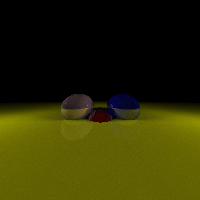
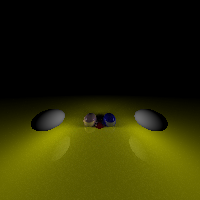
non working sphrical light sources

Changed region(s): [[0.0, 0.45, 1.0, 0.81]]

diff --git a/src/main.rs b/src/main.rs
@@ -55,7 +55,7 @@ impl Light {
             position: position.clone(),
             direction: direction,
             radius: radius,
-            sphere: Sphere::new(radius, position, vec![225,225,225], 0.0, 0.0)
+            sphere: Sphere::new(radius, position, vec![(225.0 * intensity) as u8,(225.0 * intensity) as u8,(225.0 * intensity) as u8], -1.0, 0.0)
         }
     }
 }
@@ -379,8 +379,6 @@ fn update_texture_region(thread_id: usize, tx: Sender<Vec<(u32, u32, (u8, u8, u8
             if render_chance < render_chance_max {
                 let view = canvas_to_viewport(x as f64, y as f64, view_width, view_height as f64, 1.0, &z_rotation_matrix, &x_rotation_matrix, &y_rotation_matrix);
                 color = trace_ray(&camera_position, view, 0.0, f64::INFINITY, &lights, &spheres, 3.0, 1.0, global_illumination, smooth_shadows);
-                //println!("{:?}", color);
-                //println!("{:?}", color);
             }
             else  {
                 color = vec![0,0,0];
@@ -391,7 +389,6 @@ fn update_texture_region(thread_id: usize, tx: Sender<Vec<(u32, u32, (u8, u8, u8
        }
     }
     tx.send(update).unwrap();
-    //thread::sleep(Duration::from_millis(50));
 
         
 }
@@ -419,14 +416,32 @@ fn trace_ray(camera_origin: &Vec<f64>, view: Vec<f64>, tmin: f64, tmax: f64, lig
             closest_sphere = Some(sphere)
         }
     }
+    
+    //do the same but for light sources
+    for light in lights {
+        intersects = intersect_ray_sphere(&camera_origin, &view, &light.sphere);
+        if intersects[0].within(tmin, tmax) && intersects[0] < closest_t {
+            closest_t = intersects[0];
+            closest_sphere = Some(&light.sphere);
+        }
+        if intersects[1].within(tmin, tmax) && intersects[1] < closest_t {
+            closest_t = intersects[1];
+            closest_sphere = Some(&light.sphere)
+        }
+    }
+
     if closest_sphere == None {
         return vec![0, 0, 0]
     }
     //assert_eq!(intersects,vec![0.0, 0.0]);
+
+    //--values for light intensity calculation--
     let unwraped_sphere = closest_sphere.unwrap();
     let intersection: Vec<f64> = vec3_addition(&camera_origin, &vec3_multiply_by_float(&view, closest_t));
     let mut normal = vec3_negation(&intersection, &unwraped_sphere.center);
     normal = vec3_divide_by_float(&normal, vec3_length(&normal));
+    //--values for light intensity calculation--
+
     let light_intensity = compute_lighting(&intersection, &normal, lights, vec3_multiply_by_float(&view, -1.0), unwraped_sphere.specularity, spheres, smooth_shadows);
     
     let local_color = multiply_color_by_float(&unwraped_sphere.color, light_intensity);
